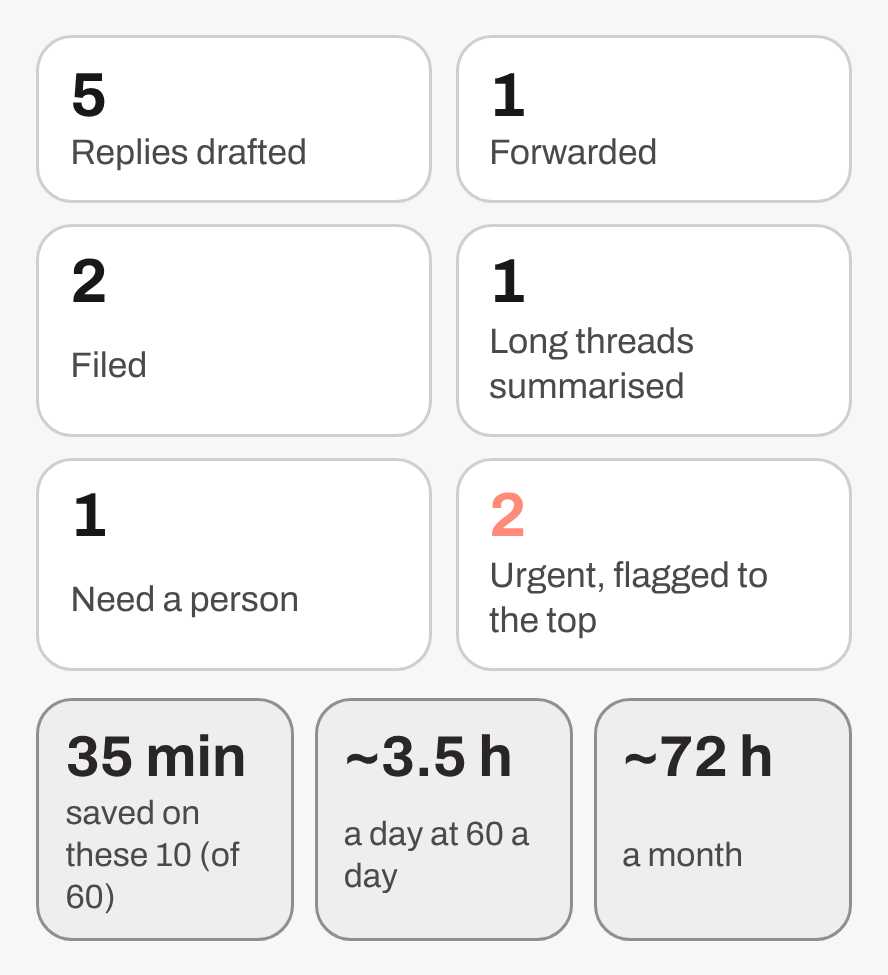
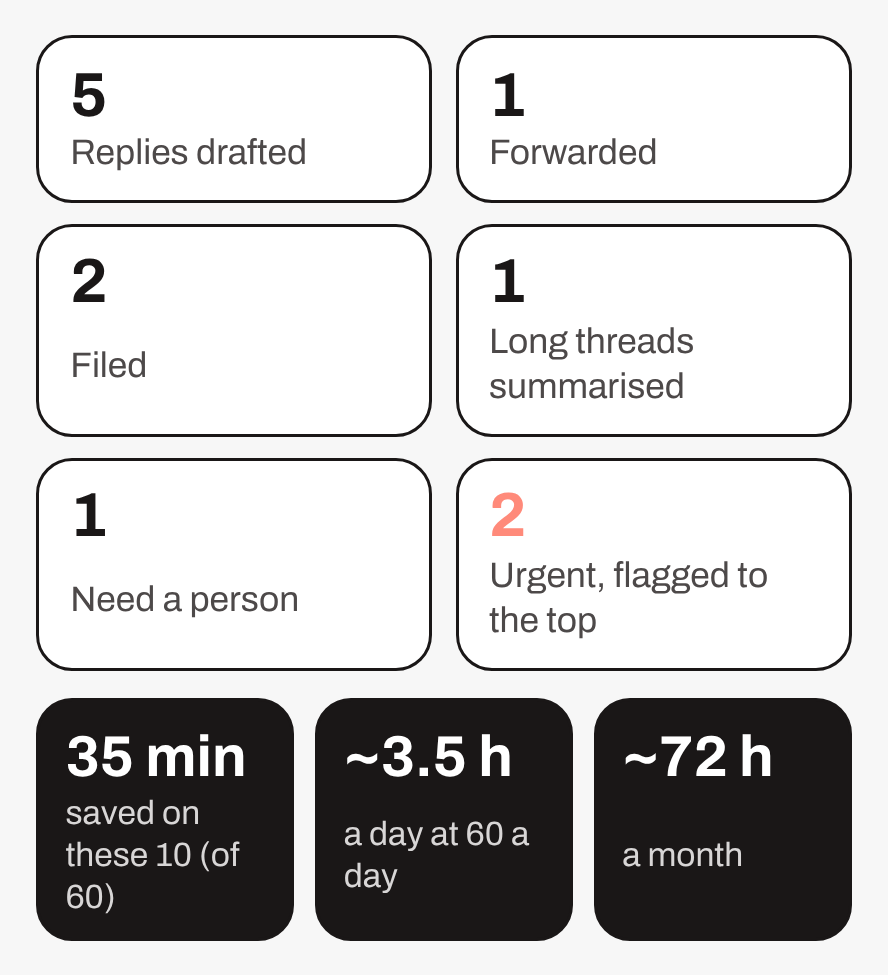
Homepage: light 'Watch it work' with tabs and light inbox screenshots; bigger deck-style before/after cards
Claude-Session: https://claude.ai/code/session_01M1NKcTwKaxVh1QCPGxnW1z

diff --git a/home.css b/home.css
@@ -580,3 +580,70 @@ html:has(.hp-slides) { scroll-snap-type: y proximity; scroll-padding-top: var(--
   .hp-chip--4 { right: 2%; }
   .hp-problem > .hp-wrap { width: auto !important; max-width: none !important; margin-left: max(calc((100vw - 1180px) / 2), 1.5rem) !important; margin-right: max(calc((100vw - 1400px) / 2), 1.5rem) !important; }
 }
+/* ---------- "Watch it work", light like the rest of the site ---------- */
+.hp-show--light { background: var(--paper, #f7f7f7) !important; color: var(--ink) !important; }
+.hp-show--light h2, .hp-show--light h3 { color: var(--ink) !important; }
+.hp-show--light .hp-show__head p { color: #4a4646; }
+.hp-show--light .hp-next { border-color: var(--ink) !important; color: var(--ink) !important; }
+.hp-show--light .hp-swipe { max-width: 1000px; }
+.hp-swipe__tabs { display: flex; flex-wrap: wrap; gap: .5rem; margin-bottom: .9rem; }
+.hp-swipe__tabs button { display: inline-flex; align-items: center; gap: .5rem; padding: .45rem 1rem .45rem .5rem; border: 1.5px solid var(--ink); border-radius: 99px; background: #fff; color: var(--ink); font: 700 .9rem/1 "Archivo", sans-serif; text-transform: uppercase; letter-spacing: .02em; cursor: pointer; transition: background .2s, color .2s; }
+.hp-swipe__tabs button:hover { background: #ececec; }
+.hp-swipe__tabs button.is-on { background: var(--ink); color: #fff; }
+.hp-swipe__ic { width: 1.5rem; height: 1.5rem; border-radius: 50%; display: grid; place-items: center; background: var(--ink); color: #fff; font-size: .8rem; }
+.hp-swipe__tabs button.is-on .hp-swipe__ic { background: #fff; color: var(--ink); }
+.hp-show--light .hp-swipe__track { border-radius: 18px; }
+.hp-show--light .hp-swipe__item figure { justify-items: center; gap: .7rem; }
+.hp-show--light .hp-swipe__item figcaption { color: #4a4646; font-size: 1rem; order: 2; justify-self: center; }
+.hp-show--light .hp-swipe__item img { order: 1; background: none !important; border-radius: 18px; box-shadow: 0 24px 50px -28px rgba(0, 0, 0, .35); max-height: min(calc(100svh - var(--nav-h, 67px) - 21rem), 34rem) !important; }
+.hp-show--light .hp-swipe__track:focus-visible { outline-color: var(--ink); }
+.hp-show--light .hp-swipe__nav button { border-color: var(--ink); color: var(--ink); }
+.hp-show--light .hp-swipe__nav button:hover:not(:disabled) { background: var(--ink); color: #fff; }
+.hp-show--light .hp-swipe__nav .hp-link { color: var(--ink); text-decoration-color: var(--ink); }
+@media (max-width: 860px) {
+  .hp-swipe__tabs { gap: .35rem; } .hp-swipe__tabs button { font-size: .78rem; padding: .35rem .7rem .35rem .35rem; }
+  .hp-swipe__ic { width: 1.25rem; height: 1.25rem; font-size: .7rem; }
+  .hp-show--light .hp-swipe__item img { max-height: 42vh !important; }
+  .hp-show--light .hp-swipe__item figcaption { font-size: .88rem; }
+}
+
+/* ---------- Before and after: bigger cards, images spilling over the edges like the deck ---------- */
+@media (min-width: 861px) {
+  .hp-deck-ba .hp-ba__grid { grid-template-columns: minmax(0, 1fr) auto minmax(0, 1fr); gap: clamp(3rem, 7vw, 6.5rem); margin-top: clamp(1.2rem, 3vh, 2.2rem); max-width: 1180px; }
+  .hp-deck-ba .hp-ba__before, .hp-deck-ba .hp-ba__after { min-height: clamp(15rem, 36vh, 21rem); padding: clamp(1.4rem, 3.5vh, 2.4rem) clamp(1.6rem, 2.6vw, 2.6rem); border-radius: 20px; display: flex; flex-direction: column; justify-content: center; }
+  .hp-deck-ba h3 { font-size: clamp(1rem, 1.4vw, 1.3rem); margin-bottom: clamp(.9rem, 2.4vh, 1.5rem); }
+  .hp-deck-ba ul { gap: clamp(.7rem, 2vh, 1.15rem) !important; max-width: 64% !important; }
+  .hp-deck-ba li { font-size: clamp(1.02rem, 1.35vw, 1.3rem) !important; gap: 1rem; line-height: 1.25; }
+  .hp-deck-ba li::before { width: clamp(2rem, 2.6vw, 2.6rem) !important; height: clamp(2rem, 2.6vw, 2.6rem) !important; font-size: 1rem; }
+  .hp-deck-ba .hp-ba__after li::before { font-size: 1.2rem; }
+  .hp-deck-ba .hp-ba__stack { width: 52% !important; max-width: 320px !important; right: -24% !important; bottom: -6% !important; }
+  .hp-deck-ba .hp-ba__mail { width: 40% !important; max-width: 230px !important; right: -20% !important; bottom: auto !important; top: 50%; translate: 0 -50%; padding: 1.3rem 1.4rem; border: 1.5px solid #3a3636; }
+  .hp-deck-ba .hp-ba__arrow { position: relative; font-size: 2.2rem; padding: 1rem 0; align-self: stretch; display: grid; place-items: center; }
+  .hp-deck-ba .hp-ba__arrow::before, .hp-deck-ba .hp-ba__arrow::after { content: ""; position: absolute; left: 50%; width: 1px; height: 32%; background: var(--ink); }
+  .hp-deck-ba .hp-ba__arrow::before { top: 0; } .hp-deck-ba .hp-ba__arrow::after { bottom: 0; }
+}
+@media (max-width: 860px) {
+  .hp-deck-ba .hp-ba__stack { width: 40% !important; max-width: 180px !important; right: -.6rem !important; bottom: -.6rem !important; }
+  .hp-deck-ba .hp-ba__mail { width: 30% !important; right: -.4rem !important; }
+  .hp-deck-ba li { font-size: 1rem; }
+}
+/* Tabs, arrows and the link share one row above the picture */
+.hp-show--light .hp-swipe { max-width: none; display: grid; grid-template-columns: 1fr auto; grid-template-areas: "tabs nav" "track track"; align-items: center; column-gap: 1rem; }
+.hp-show--light .hp-swipe__tabs { grid-area: tabs; margin: 0 0 .9rem; }
+.hp-show--light .hp-swipe__nav { grid-area: nav; margin: 0 0 .9rem; }
+.hp-show--light .hp-swipe__nav .hp-link { margin-left: .6rem; }
+.hp-show--light .hp-swipe__track { grid-area: track; }
+.hp-show--light .hp-swipe__item img { max-height: min(calc(100svh - var(--nav-h, 67px) - 19rem), 36rem) !important; }
+.hp-show--light .hp-swipe__item img.hp-swipe__kpi { box-shadow: none; }
+@media (max-width: 860px) {
+  .hp-show--light .hp-swipe { grid-template-columns: 1fr; grid-template-areas: "tabs" "track" "nav"; }
+  .hp-show--light .hp-swipe__nav { margin: .7rem 0 0; }
+  .hp-show--light .hp-swipe__nav .hp-link { margin-left: auto; }
+}
+@media (min-width: 861px) {
+  .hp-deck-ba .hp-ba__grid { gap: clamp(2.5rem, 5vw, 5rem); }
+  .hp-deck-ba .hp-ba__mail { right: -11% !important; width: 36% !important; max-width: 210px !important; }
+  .hp-deck-ba .hp-ba__after ul { max-width: 60% !important; }
+}
+.hp-show--light .hp-swipe__item img { max-height: min(calc(100svh - var(--nav-h, 67px) - 22rem), 36rem) !important; }
+@media (min-width: 861px) { .hp-deck-ba .hp-ba__stack { right: -14% !important; width: 48% !important; } }

diff --git a/index.html b/index.html
@@ -31,7 +31,7 @@
   <link rel="stylesheet" href="https://fonts.googleapis.com/css2?family=Archivo:wdth,wght@62..125,400..900&family=Inter:wght@400;500;600&family=Space+Grotesk:wght@500;600;700&family=JetBrains+Mono:wght@400;500;600&display=swap" media="print" onload="this.media=&#39;all&#39;" />
   <noscript><link rel="stylesheet" href="https://fonts.googleapis.com/css2?family=Archivo:wdth,wght@62..125,400..900&family=Inter:wght@400;500;600&family=Space+Grotesk:wght@500;600;700&family=JetBrains+Mono:wght@400;500;600&display=swap" /></noscript>
   <link rel="stylesheet" href="styles.css?v=20261016l" />
-  <link rel="stylesheet" href="home.css?v=20261016q" />
+  <link rel="stylesheet" href="home.css?v=20261016t" />
 
   <script type="application/ld+json">
 {
@@ -263,19 +263,20 @@
     </section>
 
     <!-- Slide 4: the real thing -->
-    <section id="see" class="hp-slide hp-show" aria-labelledby="s4">
+    <section id="see" class="hp-slide hp-show hp-show--light" aria-labelledby="s4">
       <div class="hp-wrap">
         <div class="hp-show__head">
-          <div><p class="hp-num hp-num--light">03</p><p class="hp-label hp-label--light">See it work</p><h2 id="s4">Watch it work.</h2></div>
+          <div><p class="hp-num">03</p><p class="hp-label">See it work</p><h2 id="s4">Watch it work.</h2></div>
           <p>A morning&rsquo;s inbox, sorted in seconds. Run any example yourself; nothing is sent.</p>
         </div>
         <div class="hp-swipe" data-swipe>
+          <div class="hp-swipe__tabs" role="group" aria-label="Show"><button type="button" data-swipe-to="0"><span class="hp-swipe__ic hp-swipe__ic--x" aria-hidden="true">&times;</span>Before</button><button type="button" data-swipe-to="1"><span class="hp-swipe__ic" aria-hidden="true">&#10003;</span>After</button><button type="button" data-swipe-to="2"><span class="hp-swipe__ic" aria-hidden="true">&#9201;</span>Result</button></div>
           <ol class="hp-swipe__track" aria-label="Before, after and the results">
-            <li class="hp-swipe__item"><figure><figcaption><b>1 &middot; Before</b> 10 new emails, nothing sorted.</figcaption><img src="assets/shots/inbox-before.png" alt="An inbox with ten unread emails: quote requests, an invoice, a complaint, a newsletter, a long thread and a bank statement, all mixed together." width="2000" height="1033" loading="lazy" /></figure></li>
-            <li class="hp-swipe__item"><figure><figcaption><b>2 &middot; After</b> Every email sorted, routed or drafted.</figcaption><img src="assets/shots/inbox-after.png" alt="The same inbox after AI: each email marked urgent, today or routine, and labelled reply drafted, forwarded to accounts, filed, thread summarised or needs a person." width="2000" height="1033" loading="lazy" /></figure></li>
-            <li class="hp-swipe__item"><figure><figcaption><b>3 &middot; The result</b> 35 minutes saved on these 10.</figcaption><img class="hp-swipe__kpi" src="assets/shots/inbox-results.png" alt="Results: 5 replies drafted, 1 forwarded, 2 filed, 1 thread summarised, 1 needs a person, 2 urgent flagged. 35 minutes saved on these 10; about 3.5 hours a day and 72 hours a month at 60 emails a day." width="888" height="975" loading="lazy" /></figure></li>
+            <li class="hp-swipe__item"><figure><figcaption>10 new emails, nothing sorted.</figcaption><img src="assets/shots/inbox-before.png?v=2" alt="An inbox with ten unread emails: quote requests, an invoice, a complaint, a newsletter, a long thread and a bank statement, all mixed together." width="2556" height="1320" loading="lazy" /></figure></li>
+            <li class="hp-swipe__item"><figure><figcaption>Every email sorted, routed or drafted.</figcaption><img src="assets/shots/inbox-after.png?v=2" alt="The same inbox after AI: each email marked urgent, today or routine, and labelled reply drafted, forwarded to accounts, filed, thread summarised or needs a person." width="2556" height="1320" loading="lazy" /></figure></li>
+            <li class="hp-swipe__item"><figure><figcaption>35 minutes saved on these 10.</figcaption><img class="hp-swipe__kpi" src="assets/shots/inbox-results.png?v=2" alt="Results: 5 replies drafted, 1 forwarded, 2 filed, 1 thread summarised, 1 needs a person, 2 urgent flagged. 35 minutes saved on these 10; about 3.5 hours a day and 72 hours a month at 60 emails a day." width="888" height="975" loading="lazy" /></figure></li>
           </ol>
-          <div class="hp-swipe__nav"><button type="button" data-swipe-prev aria-label="Previous">&larr;</button><span class="hp-swipe__dots" aria-hidden="true"><i></i><i></i><i></i></span><button type="button" data-swipe-next aria-label="Next">&rarr;</button><a class="hp-link hp-link--light" href="live-demo?sample=email">Run it yourself &rarr;</a></div>
+          <div class="hp-swipe__nav"><button type="button" data-swipe-prev aria-label="Previous">&larr;</button><button type="button" data-swipe-next aria-label="Next">&rarr;</button><a class="hp-link" href="live-demo?sample=email">Run it yourself &rarr;</a></div>
         </div>
         <ul class="hp-kinds" aria-label="Examples">
           <li><a href="live-demo?sample=email">Emails</a></li><li><a href="live-demo?sample=enquiries">WhatsApp enquiries</a></li><li><a href="live-demo?sample=calls">Phone calls</a></li><li><a href="live-demo?sample=invoices">Invoices</a></li><li><a href="live-demo?sample=followups">Quote follow-ups</a></li><li><a href="ai-demos">All ten &rarr;</a></li>
@@ -358,7 +359,7 @@
       </div>
     </section>
   </main>
-  <script src="home.js?v=3" defer></script>
+  <script src="home.js?v=4" defer></script>
   <!-- ============ FOOTER ============ -->
   <footer class="footer footer--slim">
     <div class="container">

diff --git a/scripts/shots/light.css b/scripts/shots/light.css
@@ -1,0 +1,25 @@
+.ld-box, .alp { color-scheme: light !important;
+  --bg:#ffffff; --surface:#ffffff; --surface-2:#f6f6f5; --border:#ececea; --border-strong:#1a1717;
+  --text:#1a1717; --text-muted:#5f5b5b; --text-dim:#7a7676;
+  --accent:#1a73e8; --accent-bright:#1a73e8; --accent-soft:rgba(26,115,232,.08); --accent-line:rgba(26,115,232,.3);
+  --font-display:"Archivo",system-ui,sans-serif; --font-body:"Archivo",system-ui,sans-serif; }
+.ld[data-kind="email"] .ld-box { background:#fff !important; border:1.5px solid #1a1717 !important; border-top-width:1.5px !important; border-radius:18px !important; }
+.ld[data-kind="email"] .ld-row:not(.is-done) .ld-row__from b, .ld[data-kind="email"] .ld-row:not(.is-done) .ld-row__title b { color:#1a1717 !important; }
+.ld-box * { text-shadow:none !important; }
+.ld[data-kind="email"] { --k:#1a73e8; }
+.ld-rail { background:#f6f6f5 !important; border-right:1px solid #ececea !important; }
+.ld-rail li { color:#5f5b5b !important; } .ld-rail li.has, .ld-rail li.is-on { color:#1a1717 !important; }
+.ld-rail li.is-on { background:#e8f0fe !important; font-weight:600; }
+.ld-rail li b { color:#1a1717 !important; background:#e6e6e3 !important; }
+.ld-rail li.is-flag.has b { background:#fde7b5 !important; }
+.ld-box__bar { background:#fff !important; border-bottom:1px solid #ececea !important; }
+.ld-pri--bad, .ld-act--bad { color:#c5221f !important; border-color:#f3b3ad !important; background:#fce8e6 !important; }
+.ld-pri--amber, .ld-act--warn { color:#a14d00 !important; border-color:#f5c98a !important; background:#fef3e0 !important; }
+.ld-act--ok { color:#137333 !important; border-color:#9fd9b0 !important; background:#e6f4ea !important; }
+.ld-act--info { color:#1a5fd0 !important; border-color:#a8c7fa !important; background:#e8f0fe !important; }
+.ld-pri--muted, .ld-act--muted, .ld-pri { border-color:#d6d6d3; }
+.ld-kpi, .ld-kpis > * { background:#fff !important; border-color:#1a1717 !important; }
+.ld-time { color:#5f5b5b !important; }
+.ld-row.is-reading { background:#f1f6fe !important; }
+.ld-save > div { background:#1a1717 !important; border-color:#1a1717 !important; }
+.ld-save b { color:#fff !important; } .ld-save span { color:#d8d6d6 !important; }

diff --git a/home.js b/home.js
@@ -16,12 +16,13 @@
 (function () {
   'use strict';
   document.querySelectorAll('[data-swipe]').forEach(function (box) {
-    var track = box.querySelector('.hp-swipe__track'), items = box.querySelectorAll('.hp-swipe__item'), dots = box.querySelectorAll('.hp-swipe__dots i');
+    var track = box.querySelector('.hp-swipe__track'), items = box.querySelectorAll('.hp-swipe__item'), tabs = box.querySelectorAll('[data-swipe-to]');
     var at = function () { return Math.round(track.scrollLeft / track.clientWidth); };
     var go = function (i) { i = Math.max(0, Math.min(items.length - 1, i)); track.scrollTo({ left: i * track.clientWidth, behavior: matchMedia('(prefers-reduced-motion: reduce)').matches ? 'auto' : 'smooth' }); };
-    var mark = function () { var i = at(); dots.forEach(function (d, k) { d.classList.toggle('is-on', k === i); }); box.querySelector('[data-swipe-prev]').disabled = i === 0; box.querySelector('[data-swipe-next]').disabled = i === items.length - 1; };
+    var mark = function () { var i = at(); tabs.forEach(function (d, k) { d.classList.toggle('is-on', k === i); d.setAttribute('aria-pressed', k === i ? 'true' : 'false'); }); box.querySelector('[data-swipe-prev]').disabled = i === 0; box.querySelector('[data-swipe-next]').disabled = i === items.length - 1; };
     box.querySelector('[data-swipe-prev]').addEventListener('click', function () { go(at() - 1); });
     box.querySelector('[data-swipe-next]').addEventListener('click', function () { go(at() + 1); });
+    tabs.forEach(function (d) { d.addEventListener('click', function () { go(+d.getAttribute('data-swipe-to')); }); });
     track.addEventListener('scroll', function () { window.requestAnimationFrame(mark); }, { passive: true });
     track.addEventListener('keydown', function (e) { if (e.key === 'ArrowRight') { e.preventDefault(); go(at() + 1); } if (e.key === 'ArrowLeft') { e.preventDefault(); go(at() - 1); } });
     track.tabIndex = 0; mark();

diff --git a/scripts/shots/capture.js b/scripts/shots/capture.js
@@ -1,0 +1,16 @@
+// Re-captures the homepage "Watch it work" screenshots in the light skin.
+// Serve the site on 127.0.0.1:8199, then: node scripts/shots/capture.js scripts/shots assets/shots
+const { chromium } = require('playwright'); const fs=require('fs');
+const css=fs.readFileSync(process.argv[2]+'/light.css','utf8'); const out=process.argv[3];
+(async () => { const b = await chromium.launch({ executablePath: '/opt/pw-browsers/chromium' });
+  const ctx = await b.newContext({ viewport: { width: 1180, height: 680 }, deviceScaleFactor: 3, reducedMotion: 'reduce' });
+  const pg = await ctx.newPage(); await pg.addInitScript(() => { try { localStorage.setItem('rc_consent', 'no'); } catch (e) {} });
+  await pg.goto('http://127.0.0.1:8199/live-demo.html?sample=email', { waitUntil: 'load' }); await pg.addStyleTag({content:css}); await pg.waitForTimeout(900);
+  await pg.evaluate(() => { document.getElementById('consent')?.remove(); document.body.classList.remove('consent-open'); });
+  await pg.locator('.ld-box').screenshot({ path: out+'/inbox-before.png' });
+  await pg.click('[data-ld-run]'); await pg.waitForTimeout(900);
+  await pg.locator('.ld-box').screenshot({ path: out+'/inbox-after.png' });
+  const k = await pg.locator('.ld-kpis').boundingBox(), t = await pg.locator('.ld-time').boundingBox();
+  await pg.screenshot({ path: out+'/inbox-results.png', clip: { x: k.x - 12, y: k.y - 12, width: Math.max(k.width, t.width) + 24, height: (t.y + t.height) - k.y + 24 } });
+  await pg.screenshot({ path: out+'/full.png' });
+  await b.close(); })();
